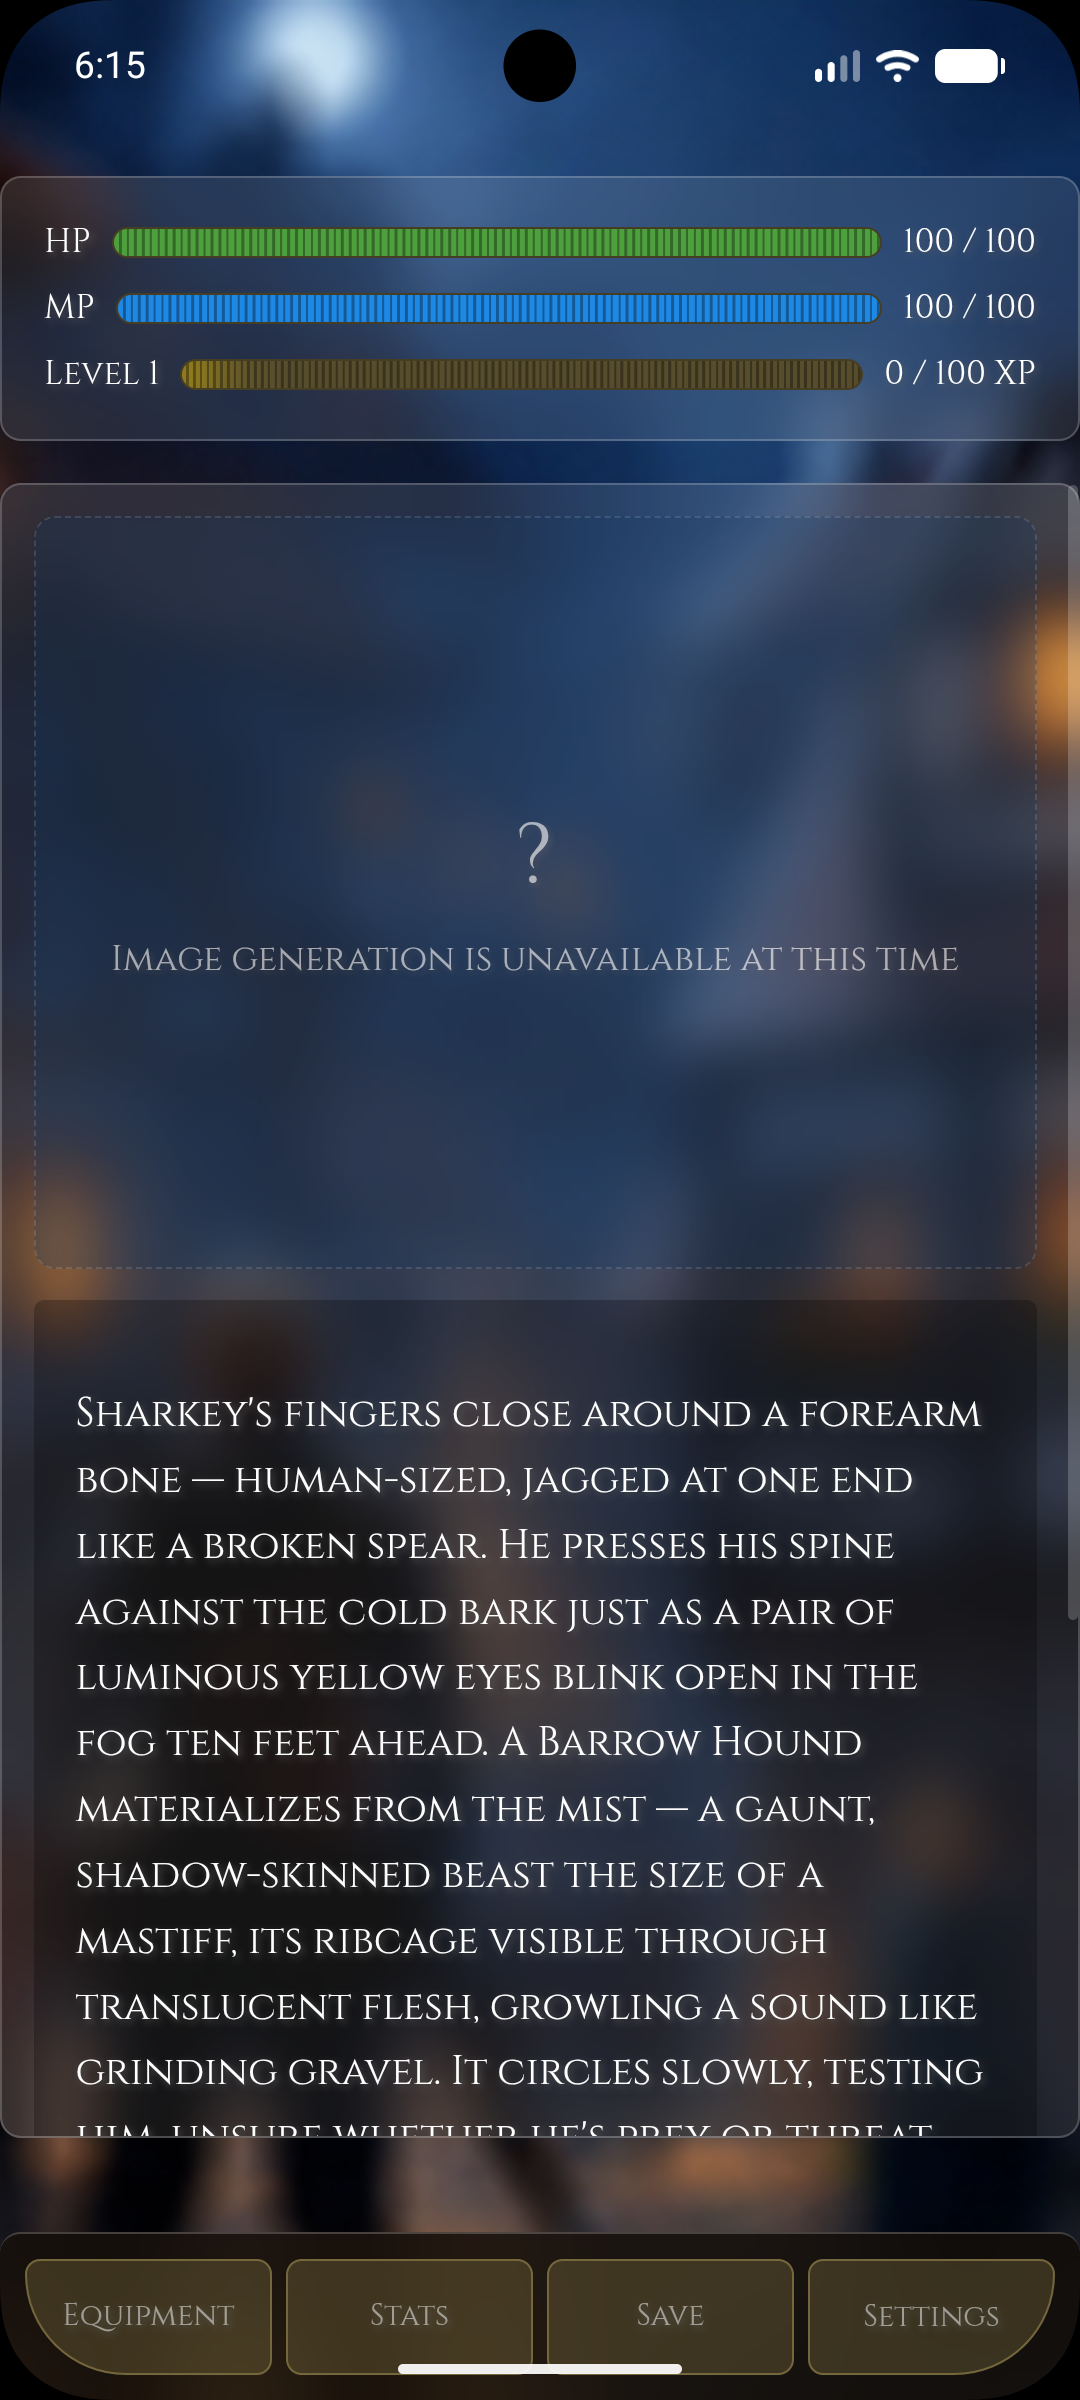
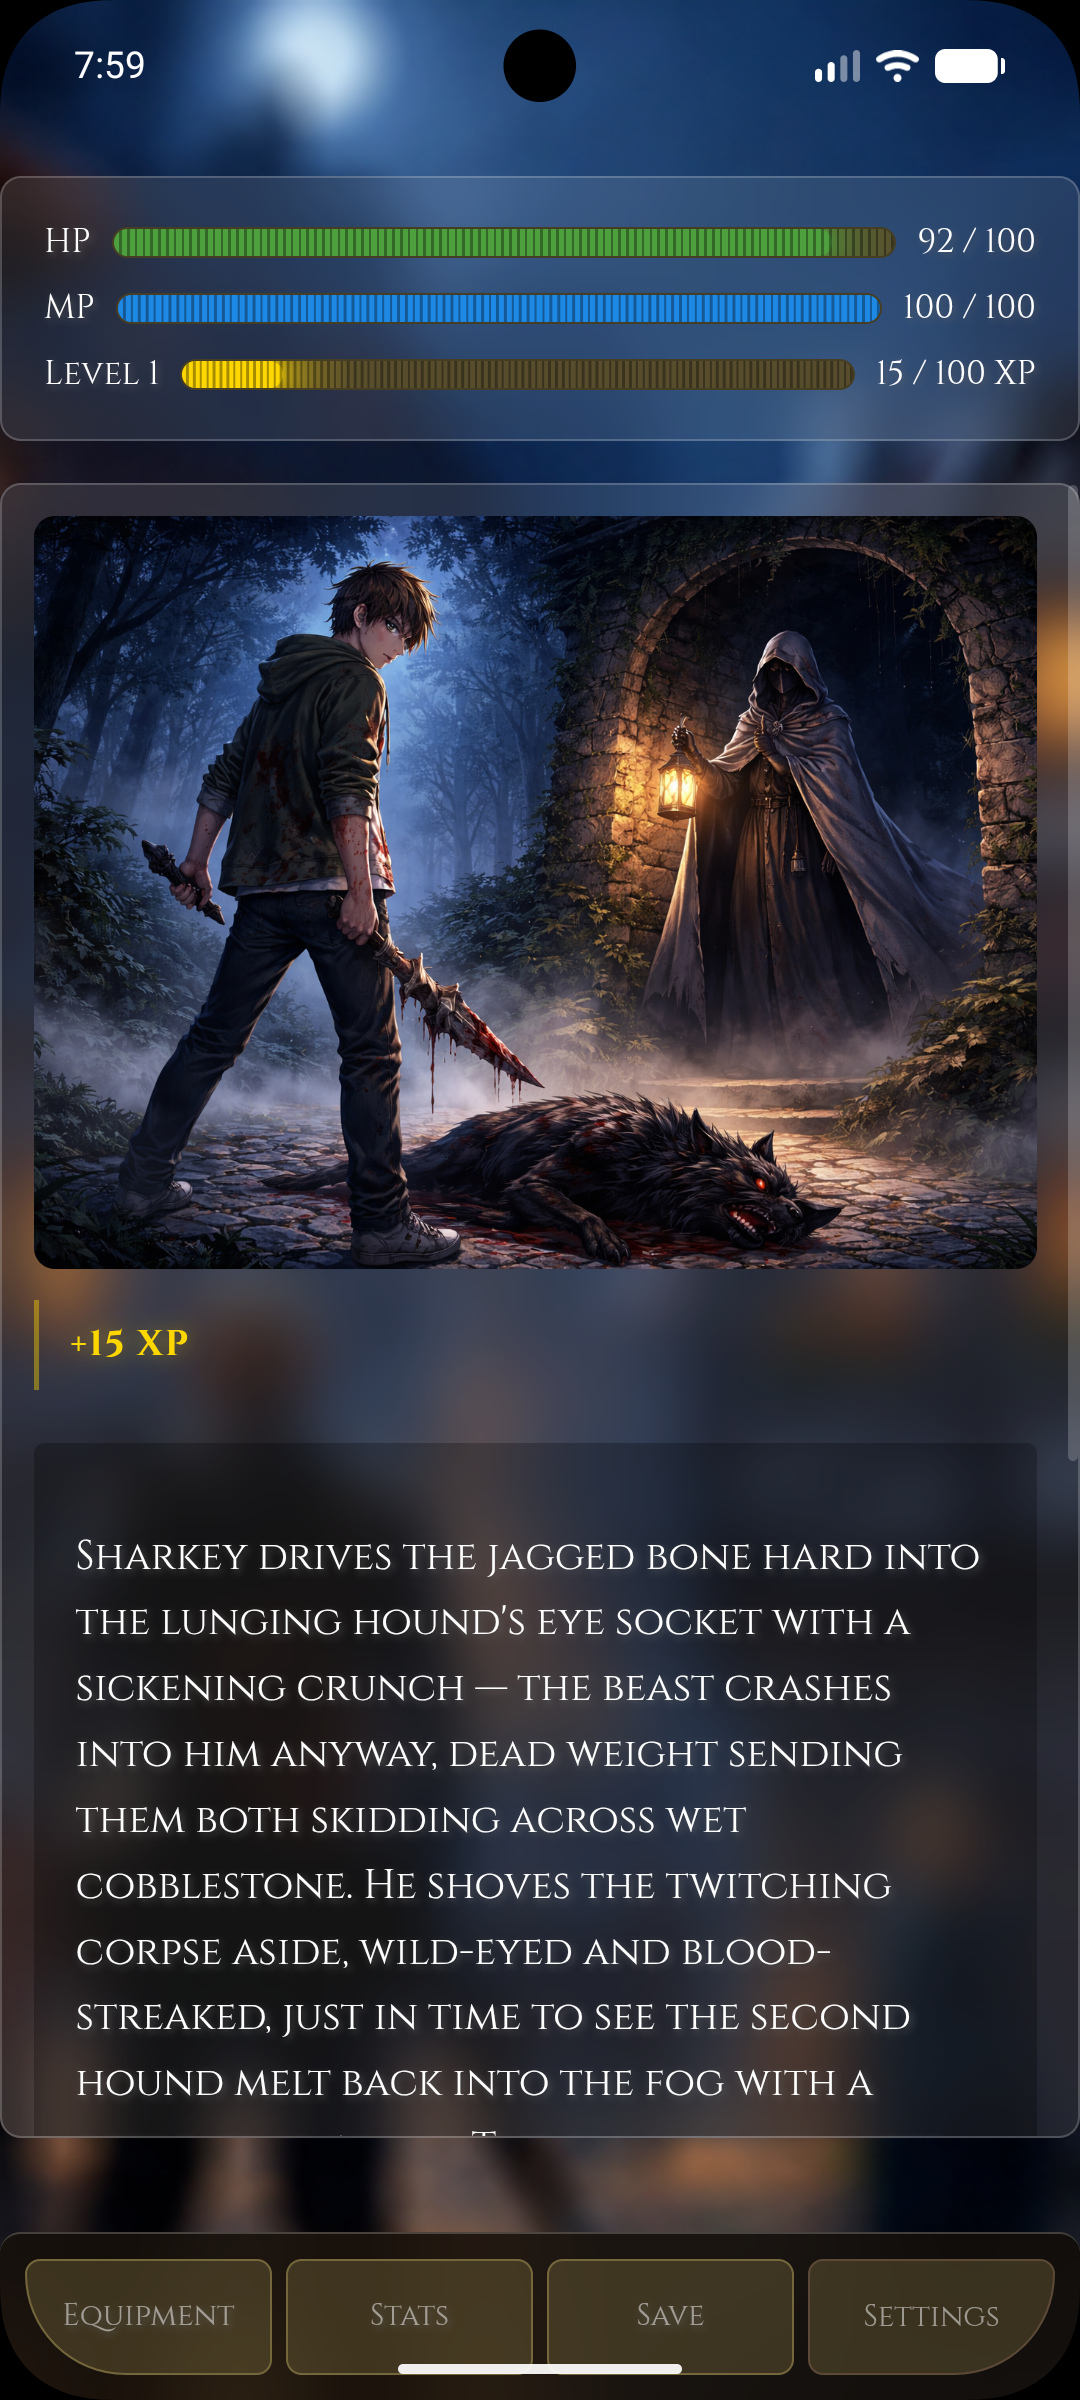
docs: Updated readme images for Android and Web
I plan to do iOS next now that I refilled my credits

diff --git a/README.md b/README.md
@@ -137,14 +137,18 @@ Want to change it to fit your requirements? You can do it at these locations bel
             <sub>Stats Section</sub>
         </td>
         <td align="center">
-            <img src="public/web/gameOver.png" alt="Game Over"><br> 
-            <sub>Game Over</sub>
+            <img src="public/web/imageExpanded.png" alt="Image Expanded"><br> 
+            <sub>Image Expanded</sub>
         </td>
     </tr>
     <tr>
         <td align="center">
             <img src="public/web/saveSlots.png" alt="Save Slots"><br> 
             <sub>Save Slots</sub>
+        </td>
+        <td align="center">
+            <img src="public/web/gameOver.png" alt="Game Over"><br> 
+            <sub>Game Over</sub>
         </td>
     </tr>
 </table>
@@ -263,6 +267,12 @@ Want to change it to fit your requirements? You can do it at these locations bel
                 <td align="center">
             <img src="public/android/statsPage.png" alt="Stats Section" width="200"><br>
             <sub>Stats Section</sub>
+        </td>
+    </tr>
+    <tr>
+        <td align="center">
+            <img src="public/android/imageExpanded.png" alt="Expanded Image" width="200"><br> 
+            <sub>Expanded Image</sub>
         </td>
     </tr>
 </table>
